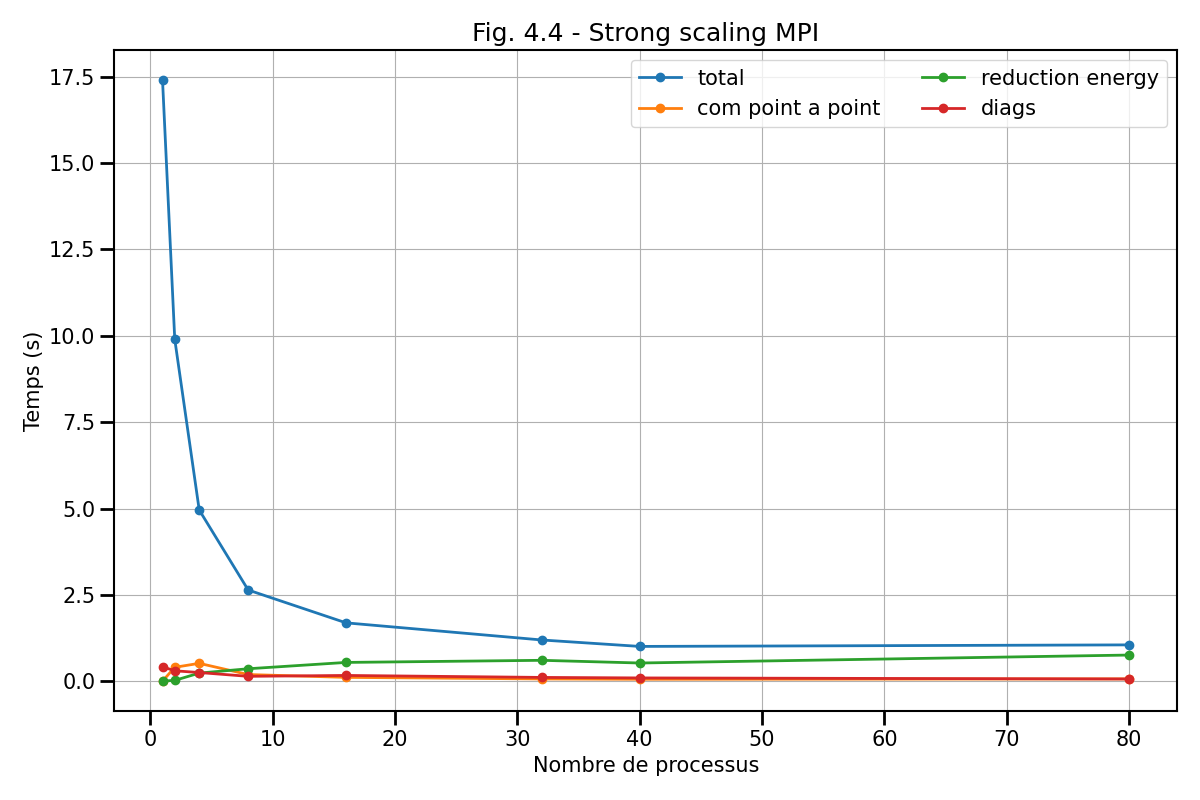
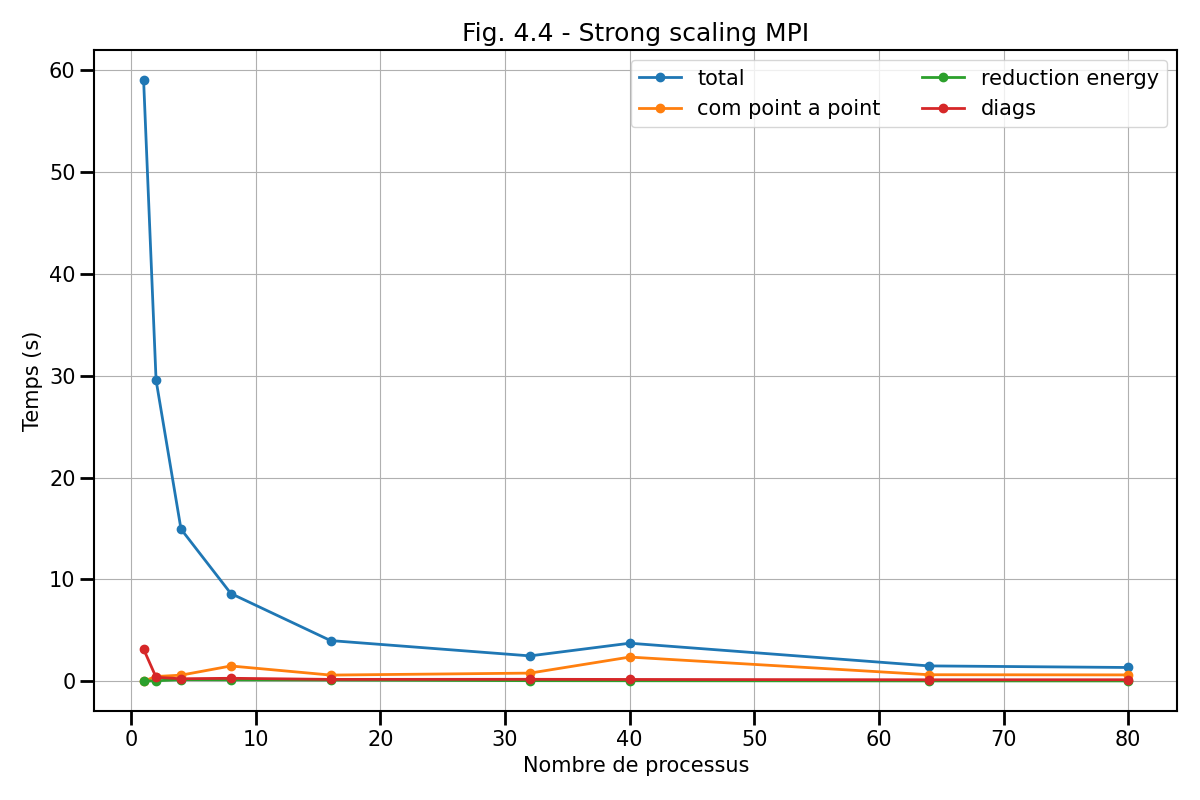
update script and more for maxwell

diff --git a/tp/maxwell/scalings/strong_scaling.py b/tp/maxwell/scalings/strong_scaling.py
@@ -15,16 +15,15 @@ from matplotlib.pyplot import *
 times = {}
 
 # Nombre de processus
-times["cores"]       = np.array([])
+times['cores'] = np.array([])
 # Temps dans la boucle en temps
-times["total"] = np.array([])
+times['total'] = np.array([])
 # Temps dans les communications point à point
-times["com"] = np.array([])
+times['com'] = np.array([])
 # Temps pour les réductions de l'énergie
-times["energy"] = np.array([])
+times['energy'] = np.array([])
 # Temps dans les diags
-times["diags"] = np.array([])
-
+times['diags'] = np.array([])
 
 # Calcul de l'efficacite pour une scalabilite faible
 times["efficiency"] = times["total"][0] * times["cores"][0] / (times["total"][:] * times["cores"][:])
@@ -65,10 +64,10 @@ fig0 = figure(figsize=(12, 8))
 gs = GridSpec(2, 2)
 ax0 = subplot(gs[:,:])
 
-ax0.plot(times["cores"],times["total"],lw=2,label="Total",marker='o')
-ax0.plot(times["cores"],times["calcul"],lw=2,label="Calcul",marker='o')
-ax0.plot(times["cores"],times["point"],lw=2,label="Com. point a point",marker='o')
-ax0.plot(times["cores"],times["global"],lw=2,label="Com. globales",marker='o')
+ax0.plot(times["cores"],times["total"],lw=2,label="total",marker='o')
+ax0.plot(times["cores"],times["com"],lw=2,label="com point a point",marker='o')
+ax0.plot(times["cores"],times["energy"],lw=2,label="reduction energy",marker='o')
+ax0.plot(times["cores"],times["diags"],lw=2,label="diags",marker='o')
 
 ax0.set_xlabel("Nombre de processus")
 ax0.set_ylabel("Temps (s)")
@@ -82,8 +81,10 @@ ax0.set_title("Fig. 4.4 - Strong scaling MPI")
 
 ax0.legend(loc="best",ncol=2)
 
+
 fig0.tight_layout()
 
+fig0.savefig("../../../support/materiel/maxwell_mpi_strong_scaling_time.png")
 
 # ______________________________________________________________________________
 # Figure efficacite
@@ -107,6 +108,8 @@ ax.legend(loc="best")
 
 fig1.tight_layout()
 
+fig1.savefig("../../../support/materiel/maxwell_mpi_strong_scaling_efficiency.png")
+
 # ______________________________________________________________________________
 # Figure Part MPI
 
@@ -114,9 +117,9 @@ fig2 = figure(figsize=(12, 6))
 gs = GridSpec(2, 2)
 ax = subplot(gs[:,:])
 
-ax.plot(times["cores"],times["calcul"]/times["total"]*100.,lw=2,marker='o',color='C1',label='Calcul')
-ax.plot(times["cores"],times["point"]/times["total"]*100.,lw=2,marker='o',color='C2',label='Com point a point')
-ax.plot(times["cores"],times["global"]/times["total"]*100.,lw=2,marker='o',color='C3',label='Communications globales')
+ax.plot(times["cores"],times["com"]/times["total"]*100.,lw=2,marker='o',color='C1',label='com point a point')
+ax.plot(times["cores"],times["energy"]/times["total"]*100.,lw=2,marker='o',color='C2',label='reduction energy')
+ax.plot(times["cores"],times["diags"]/times["total"]*100.,lw=2,marker='o',color='C3',label='diags')
 
 ax.set_title("Fig. 4.6 - Strong scaling MPI")
 
@@ -126,6 +129,8 @@ ax.set_ylabel("Part (%)")
 ax.legend(loc="best")
 
 fig2.tight_layout()
+
+fig2.savefig("../../../support/materiel/maxwell_mpi_strong_scaling_part.png")
 
 # _____________________________________________________________________________
 

diff --git a/tp/maxwell/scalings/launch_weak_scaling.py b/tp/maxwell/scalings/launch_weak_scaling.py
@@ -19,12 +19,12 @@ for cores in number_of_cores:
     script += "#SBATCH --error=error \n"
     script += "#SBATCH --ntasks={}                # Nombre d'unité de calcul ou de processus MPI \n".format(cores)
     script += "#SBATCH --nodes={}                # Nombre d'unité de calcul ou de processus MPI \n".format(nodes)
-    script += "#SBATCH --time=00:05:00           # Temps souhaité pour la réservation \n"
+    script += "#SBATCH --time=00:01:00           # Temps souhaité pour la réservation \n"
     script += "#SBATCH --partition=cpu_short     # Partition des jobs rapides \n"
     script += "source ~/env_dfe_hpc.sh \n"
     script += "et -x \n"
     script += "cd ${SLURM_SUBMIT_DIR} \n"
-    script += "srun ../exe -it 2000 -nx {} -ny 256 -p 100 -d 100 \n".format(64*cores)
+    script += "srun ../exe -it 2000 -nx {} -ny 512 -p 100 -d 100 \n".format(512*cores)
 
     fp = open("launch.sh".format(folder), 'w')
     fp.write(script)

diff --git a/tp/maxwell/scalings/launch_strong_scaling.py b/tp/maxwell/scalings/launch_strong_scaling.py
@@ -19,7 +19,7 @@ for cores in number_of_cores:
     script += "#SBATCH --error=error \n"
     script += "#SBATCH --ntasks={}                # Nombre d'unité de calcul ou de processus MPI \n".format(cores)
     script += "#SBATCH --nodes={}                # Nombre d'unité de calcul ou de processus MPI \n".format(nodes)
-    script += "#SBATCH --time=00:05:00           # Temps souhaité pour la réservation \n"
+    script += "#SBATCH --time=00:02:00           # Temps souhaité pour la réservation \n"
     script += "#SBATCH --partition=cpu_short     # Partition des jobs rapides \n"
     script += "source ~/env_dfe_hpc.sh \n"
     script += "et -x \n"
